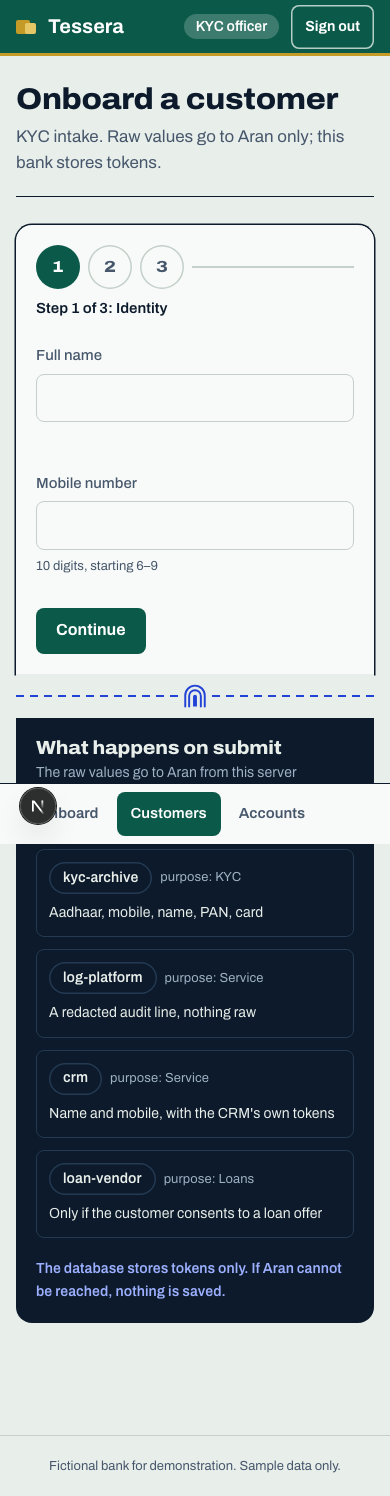
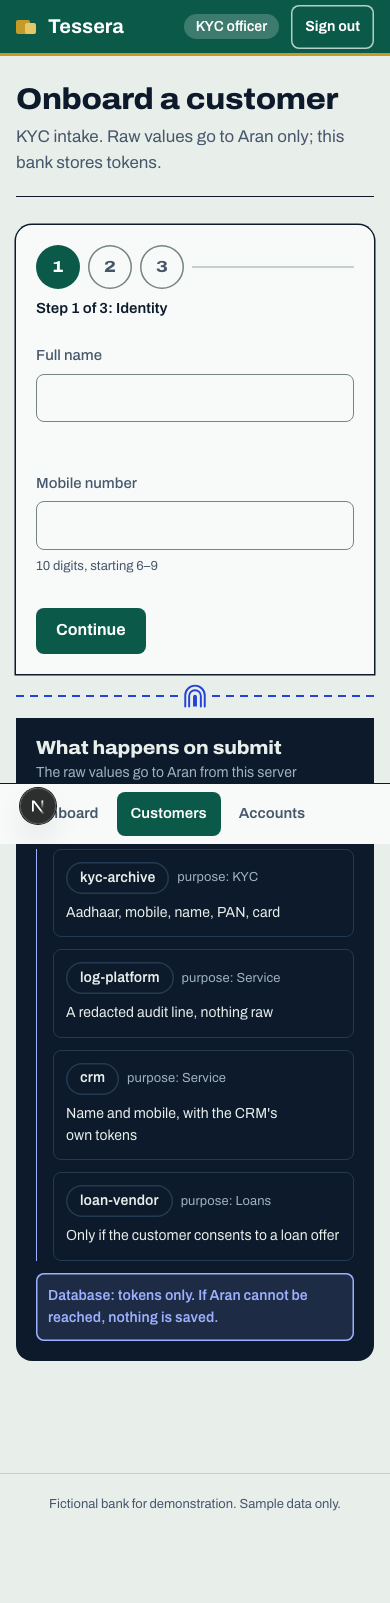
design: bank onboarding

diff --git a/bank/app/(app)/customers/new/OnboardForm.tsx b/bank/app/(app)/customers/new/OnboardForm.tsx
@@ -33,9 +33,15 @@ export function OnboardForm({ action = onboardAction }: { action?: typeof onboar
 
   return (
     <form ref={ref} action={formAction} noValidate className="space-y-6" onSubmit={(ev) => { if (!check(FIELDS_BY_STEP.flat())) { ev.preventDefault(); setStep(0); } }}>
-      <ol className="flex flex-wrap gap-2 text-sm" aria-label="Progress">
-        {STEPS.map((s, i) => <li key={s} aria-current={i === step ? "step" : undefined} className={`rounded-full px-3 py-1 font-semibold ${i === step ? "bg-accent text-accentfg" : i < step ? "bg-okweak text-ok" : "bg-surface2 text-muted"}`}>{i + 1}. {s}</li>)}
-      </ol>
+      <div>
+        <ol className="flex items-center gap-2" aria-label="Progress">
+          {STEPS.map((s, i) => (
+            <li key={s} aria-current={i === step ? "step" : undefined} aria-label={`${i + 1}. ${s}`} className={`tabular w-expanded grid size-11 shrink-0 place-items-center rounded-full text-[16px] ${i === step ? "bg-bank text-white" : i < step ? "bg-banksoft text-bank" : "text-ink2 shadow-[inset_0_0_0_1.5px_var(--rule-strong)]"}`}>{i < step ? <svg width="18" height="18" viewBox="0 0 16 16" aria-hidden="true"><path d="M2.5 8.5l3.5 3.5 7.5-8" fill="none" stroke="currentColor" strokeWidth="2.2" strokeLinecap="round" strokeLinejoin="round" /></svg> : i + 1}</li>
+          ))}
+          <li aria-hidden="true" className="h-[1.5px] flex-1 bg-rule" />
+        </ol>
+        <p className="mt-2 text-[15px] font-semibold">Step {step + 1} of {STEPS.length}: {STEPS[step]}</p>
+      </div>
       {state.message ? <Banner tone="bad" role="alert">{state.status === 503 ? "Service unavailable (503). " : ""}{state.message}</Banner> : null}
 
       <fieldset hidden={step !== 0} className="space-y-4"><legend className="sr-only">Identity</legend>
@@ -48,8 +54,8 @@ export function OnboardForm({ action = onboardAction }: { action?: typeof onboar
         <Field label="Debit card number (optional)" htmlFor="card" error={err("card")} hint="16 digits (Luhn check)"><Input id="card" name="card" inputMode="numeric" autoComplete="off" aria-invalid={!!err("card")} onBlur={() => check(["card"])} /></Field>
       </fieldset>
       <fieldset hidden={step !== 2} className="space-y-4"><legend className="sr-only">Consent and review</legend>
-        <label className="flex items-start gap-3 text-sm font-medium"><input type="checkbox" name="loanInterest" checked={loan} onChange={(x) => setLoan(x.target.checked)} className="mt-1 size-5 accent-[var(--accent)]" />
-          <span>The customer consents to share their name, mobile and PAN with our lending partner for a loan offer.<span className="block text-xs font-normal text-muted">The partner only ever receives tokens issued for the loan-vendor destination.</span></span></label>
+        <label className="flex min-h-11 items-start gap-3 text-[16px] font-medium"><input type="checkbox" name="loanInterest" checked={loan} onChange={(x) => setLoan(x.target.checked)} className="mt-0.5 size-6 shrink-0 accent-[var(--bank)]" />
+          <span>The customer consents to share their name, mobile and PAN with our lending partner for a loan offer.<span className="mt-1 block text-[14px] font-normal text-ink2">The partner only ever receives tokens issued for the loan-vendor destination.</span></span></label>
         {loan ? <Field label="Loan amount (₹)" htmlFor="loanAmount" error={err("loanAmountRupees")}><Input id="loanAmount" name="loanAmount" type="number" min={10000} step={1000} defaultValue={100000} aria-invalid={!!err("loanAmountRupees")} /></Field> : null}
         <Banner>On submit, the values are tokenised by Aran for the KYC archive, CRM{loan ? " and loan vendor" : ""} and a redacted audit line is logged. If Aran cannot be reached nothing is saved.</Banner>
       </fieldset>

diff --git a/bank/components/aran/DataPlanePreview.tsx b/bank/components/aran/DataPlanePreview.tsx
@@ -13,7 +13,7 @@ export function DataPlanePreview() {
     <div className="p-5 sm:p-6">
       <h2 className="text-[19px] font-bold [font-stretch:100%]">What happens on submit</h2>
       <p className="mt-1 text-[14px] text-ink2">The raw values go to Aran from this server and nowhere else. Each destination gets its own tokens.</p>
-      <ol className="mt-5 space-y-3">
+      <ol className="mt-5 space-y-3 border-l-[1.5px] border-token pl-4">
         {ROWS.map((r) => (
           <li key={r.sink} className="rounded-[8px] border-[1.5px] border-rule p-3">
             <div className="flex flex-wrap items-center gap-2"><SinkPill>{r.sink}</SinkPill><span className="text-[13px] text-ink2">purpose: {r.purpose}</span></div>
@@ -21,7 +21,7 @@ export function DataPlanePreview() {
           </li>
         ))}
       </ol>
-      <p className="mt-5 text-[14px] font-semibold text-token">The database stores tokens only. If Aran cannot be reached, nothing is saved.</p>
+      <div className="mt-3 rounded-[8px] bg-tokenbg p-3 text-[14px] font-semibold text-token shadow-[inset_0_0_0_1.5px_var(--token)]">Database: tokens only. If Aran cannot be reached, nothing is saved.</div>
     </div>
   );
 }

diff --git a/bank/components/aran/Flight.tsx b/bank/components/aran/Flight.tsx
@@ -5,7 +5,7 @@ import type { ReactNode } from "react";
 export function Flight({ bank, plane, boundaryMark }: { bank: ReactNode; plane: ReactNode; boundaryMark: ReactNode }) {
   return (
     <div className="grid items-stretch md:grid-cols-[minmax(0,4.2fr)_48px_minmax(0,7.8fr)]">
-      <div className="edge overflow-hidden rounded-t-[16px] bg-bond md:rounded-l-[16px] md:rounded-tr-none">{bank}</div>
+      <div className="edge relative z-10 overflow-hidden rounded-t-[16px] bg-bond md:rounded-l-[16px] md:rounded-tr-none">{bank}</div>
       <div aria-hidden="true" className="relative flex h-11 items-center justify-center bg-stock md:h-auto">
         <span className="absolute inset-x-0 top-1/2 h-[2px] -translate-y-1/2 bg-[repeating-linear-gradient(90deg,var(--seal)_0_8px,transparent_8px_14px)] md:inset-x-auto md:inset-y-0 md:left-1/2 md:top-0 md:h-auto md:w-[2px] md:-translate-x-1/2 md:translate-y-0 md:bg-[repeating-linear-gradient(var(--seal)_0_8px,transparent_8px_14px)]" />
         <span className="relative bg-stock py-2 text-seal">{boundaryMark}</span>

diff --git a/bank/app/(app)/customers/new/page.tsx b/bank/app/(app)/customers/new/page.tsx
@@ -1,4 +1,5 @@
 import { Card } from "@/components/ui";
+import { AranMark, DataPlanePreview, Flight } from "@/components/aran";
 import { PageHead } from "@/components/PageHead";
 import { requireSession } from "@/lib/auth";
 import { OnboardForm } from "./OnboardForm";
@@ -6,5 +7,10 @@ import { OnboardForm } from "./OnboardForm";
 export const metadata = { title: "Onboard a customer" };
 export default async function NewCustomer() {
   await requireSession("onboard");
-  return <div className="max-w-2xl"><PageHead title="Onboard a customer" sub="KYC intake. Raw values go to Aran only; this bank stores tokens." /><Card><OnboardForm /></Card></div>;
+  return (
+    <div className="max-w-5xl">
+      <PageHead title="Onboard a customer" sub="KYC intake. Raw values go to Aran only; this bank stores tokens." />
+      <Flight bank={<Card className="rounded-none border-0 shadow-none"><OnboardForm /></Card>} plane={<DataPlanePreview />} boundaryMark={<AranMark size={26} />} />
+    </div>
+  );
 }

diff --git a/docs/FUNCTIONALITY_GAPS.md b/docs/FUNCTIONALITY_GAPS.md
@@ -19,3 +19,4 @@ Things `DESIGN.md` asks for that the current backend/API/pages cannot supply. Pe
 11. **Login error is not linked to the fields (Screen 5).** `LoginForm.tsx` shows the error in a banner above the form; wiring `aria-describedby` and moving focus is handler logic. Left as is.
 12. **Onboarding flight cannot play (Screen 6).** On success `OnboardForm` redirects to the customer page in an effect that is above the first `return` (protected), and the tokens only exist after the server action returns. The Night side shows a static "What happens on submit" description of `lib/domain.onboardCustomer` instead; no tokens are drawn before they exist. A Review step with the real tokens would need the action to return them before redirecting.
 13. **Static assets behind the auth middleware (found in Screen 5).** `bank/middleware.ts` (protected) redirects `/fonts/*` to `/login` for signed-out visitors, so the Archivo files failed to decode on login and portal (HTML served as a font). Fixed on the presentation side by bundling the fonts through the CSS (`app/fonts/`, served from `/_next/static`). The middleware matcher itself should also exclude `/fonts`; not changed.
+14. **Onboarding focus after Continue (Screen 6).** Focus falls to the page body when step 2 moves to step 3, because the two buttons carry `key="next"` / `key="submit"` so React does not reuse one node for a click that would otherwise also submit. Moving focus to the new step needs handler code. Left as is.
